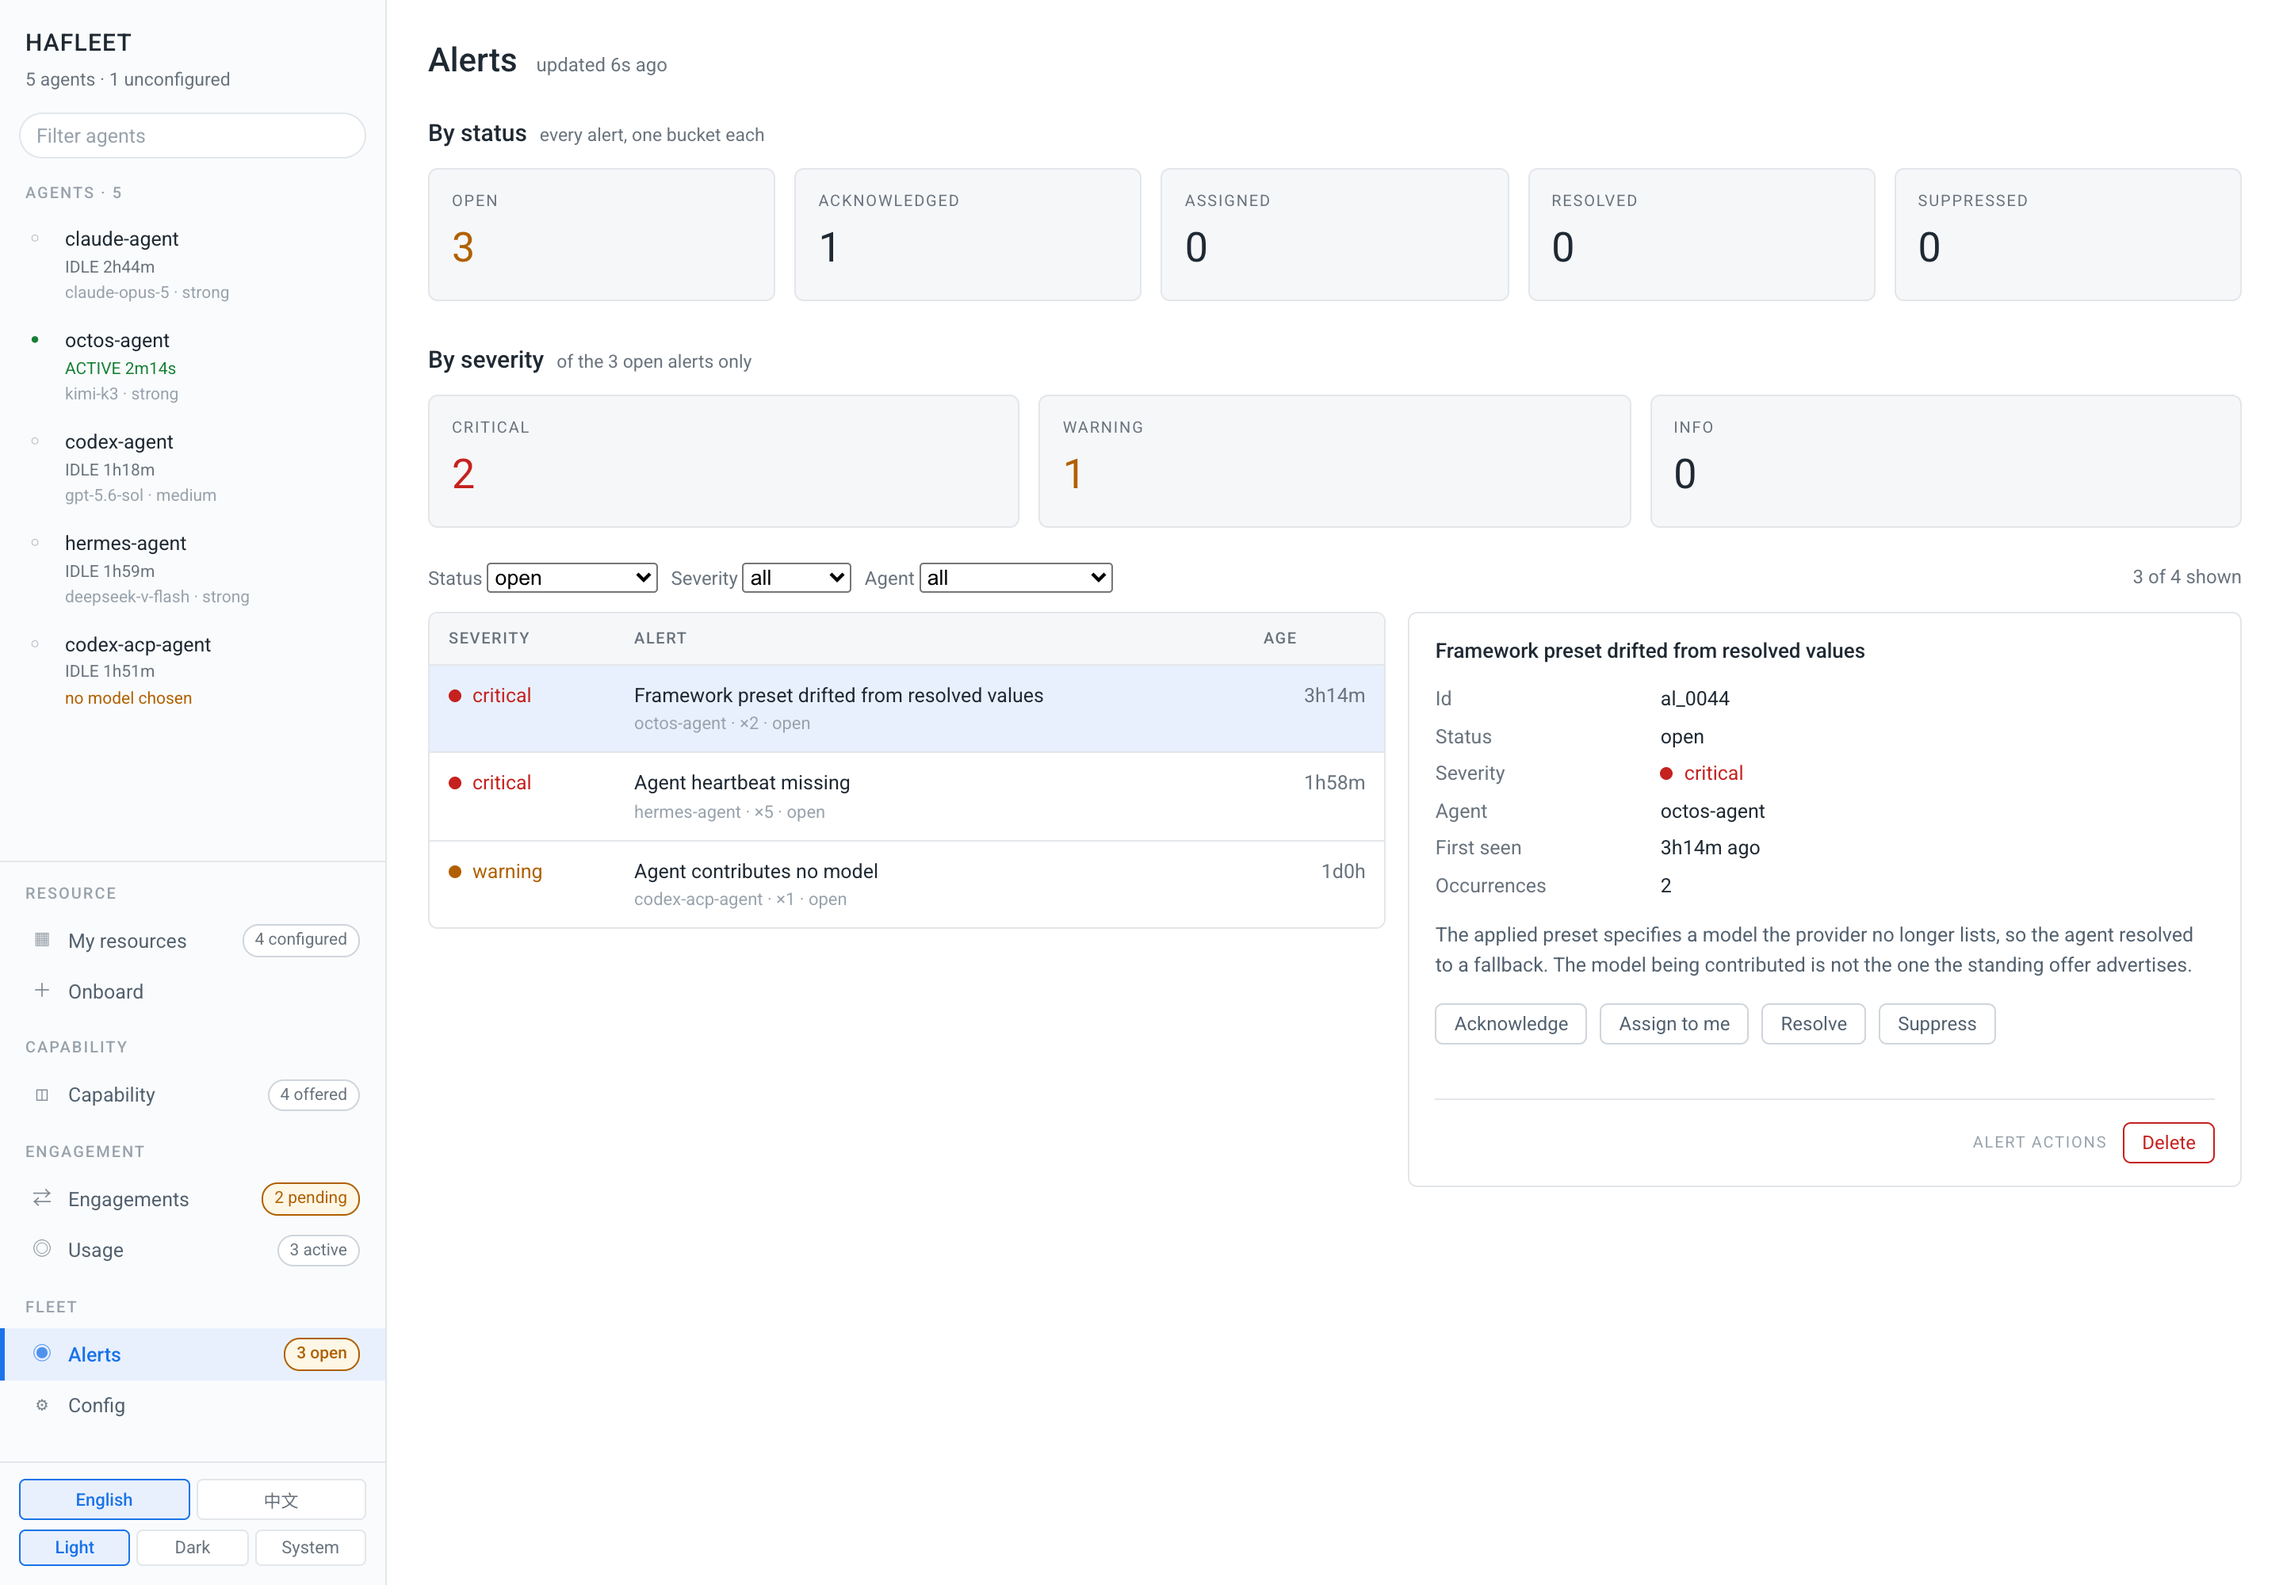
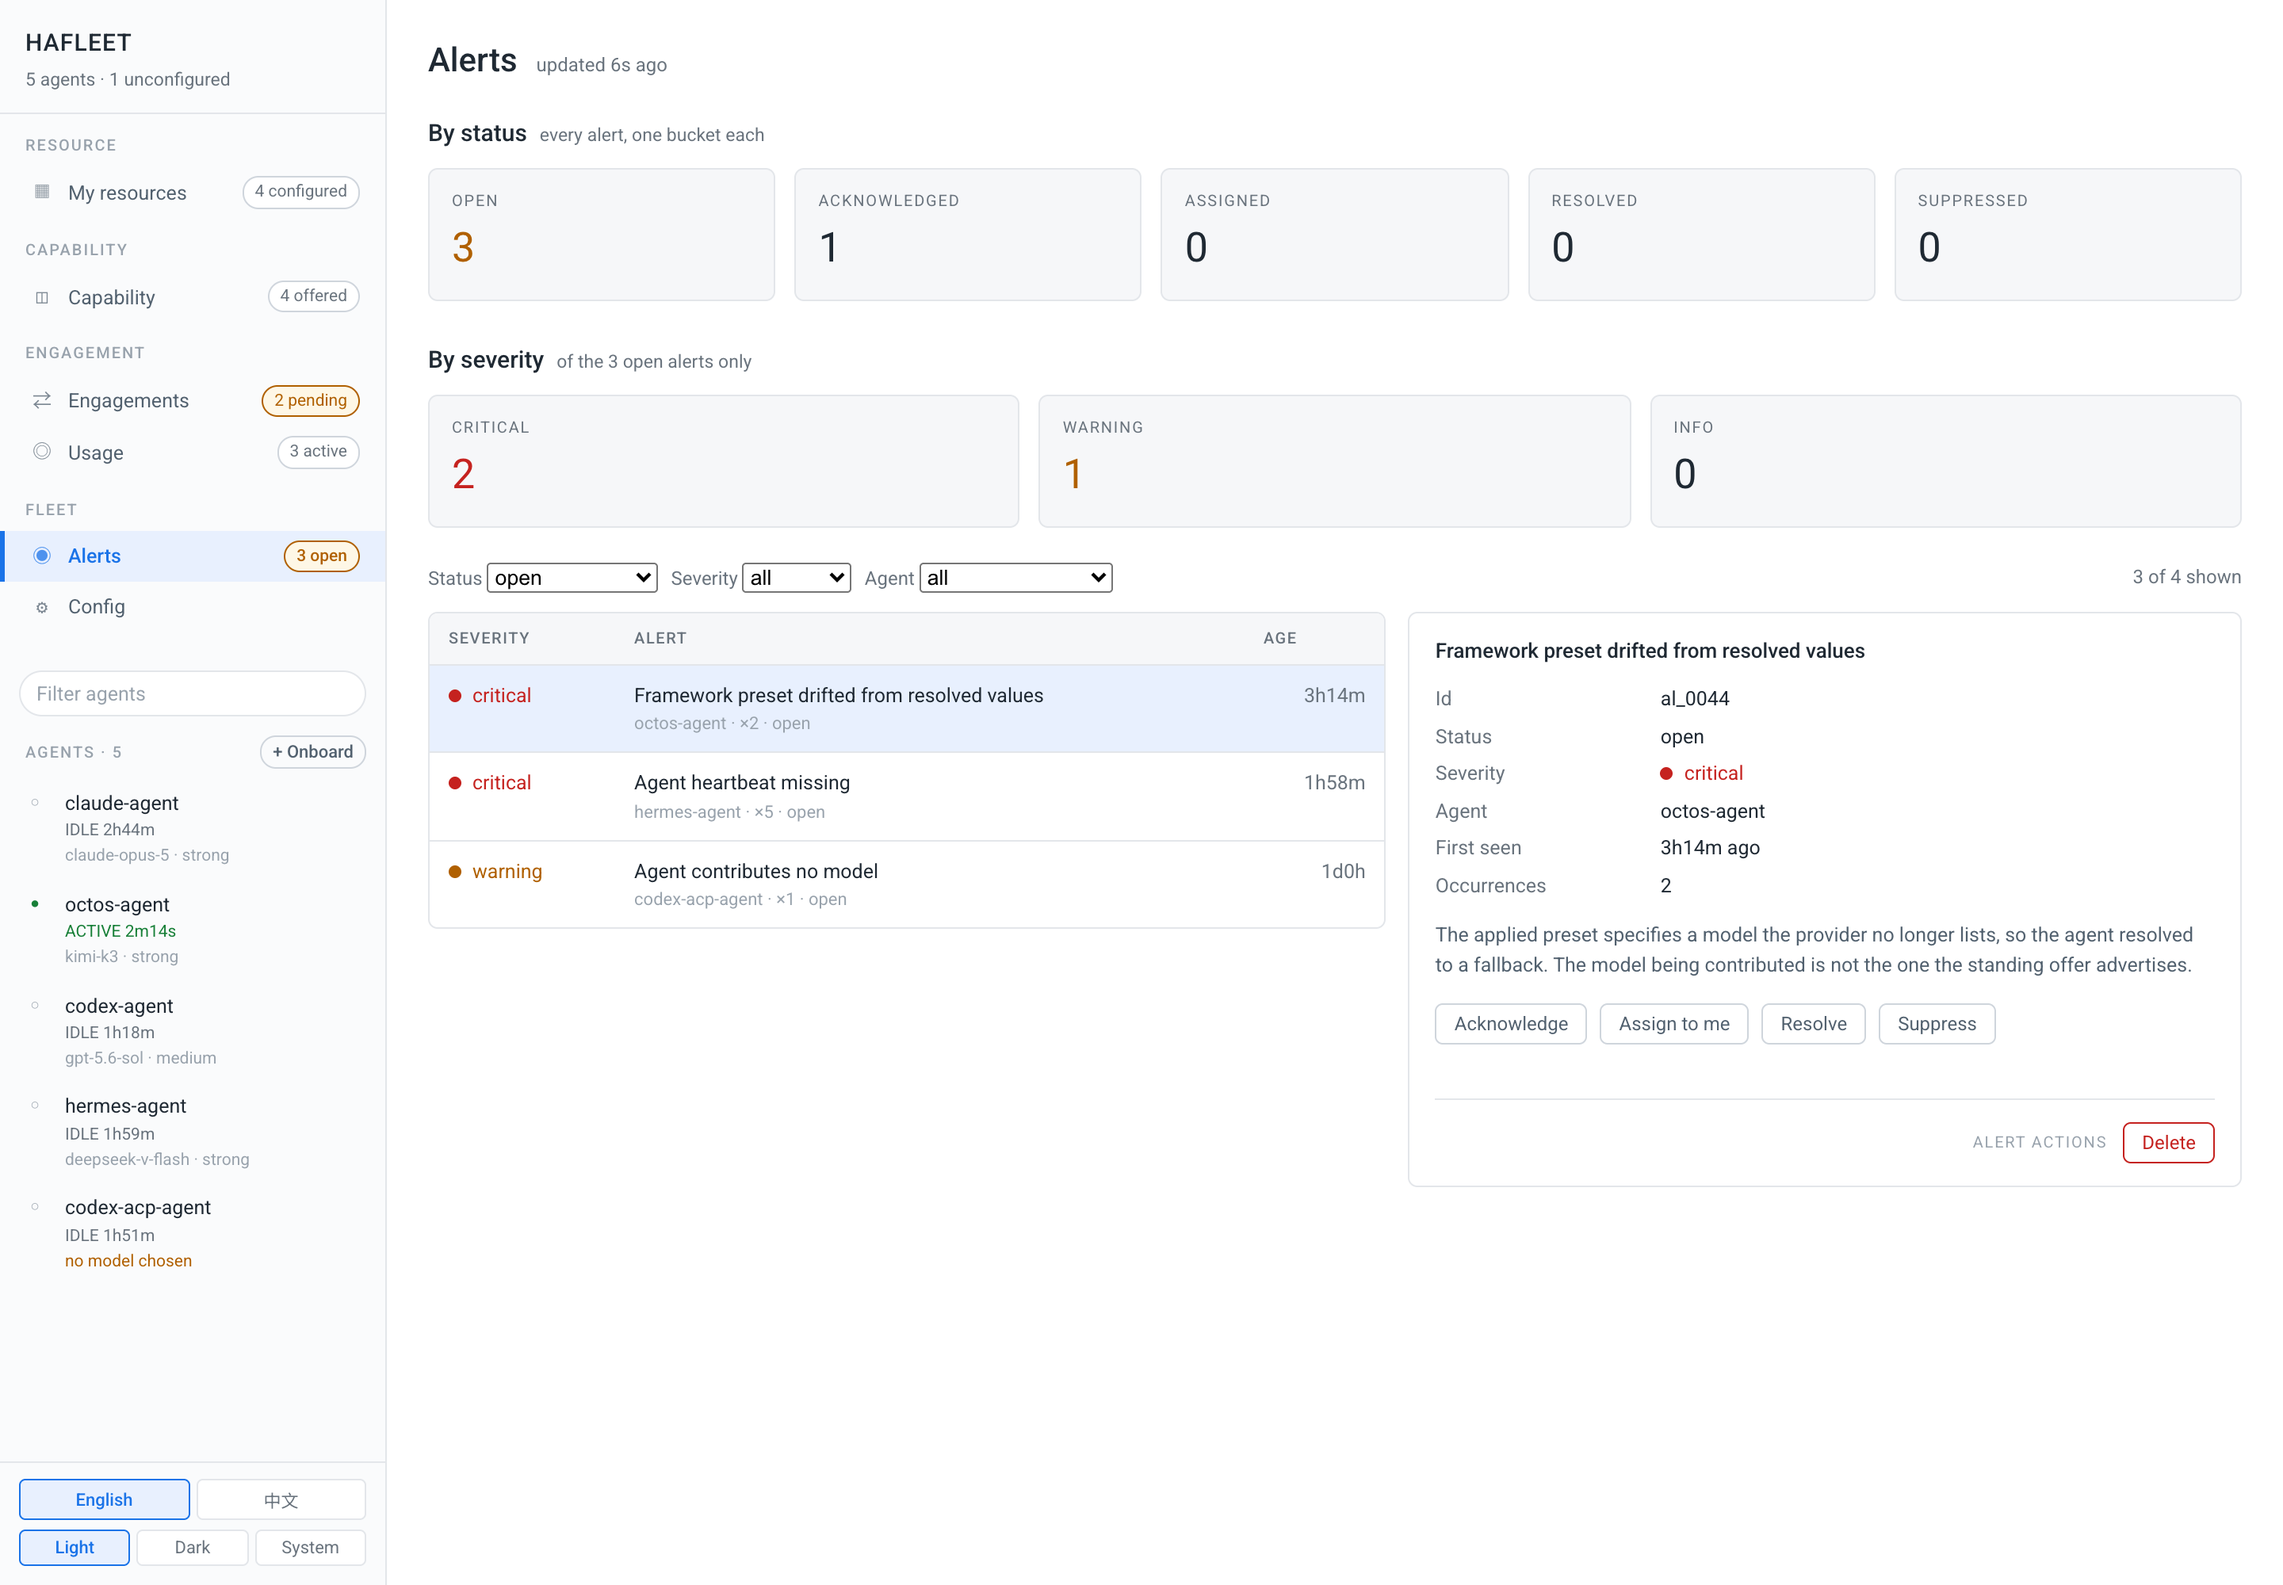
mockup: lead the rail with resources, and attach onboarding to the roster
Two IA corrections, both from the same observation: the rail was still shaped for
the console this replaced.

NAV MOVES ABOVE THE AGENT ROSTER. Leading with a list of five individual agents is
a fleet operator's headline — it is why the old rail existed at all ("agent state
never leaves the screen"). A contributor's headline is what they are lending; a
single agent is a drill-down target. The grid gives 1fr to the roster alone, so a
long list scrolls rather than pushing the nav off screen.

ONBOARDING LEAVES THE NAV. It adds a row to the agent roster, so it now rides on
that roster's heading instead of sitting as a peer of the four destinations —
a contributor onboards far less often than they look at what they are lending, and
rail position should follow frequency. Six nav destinations, down from seven; the
browser assertion says so and names where onboard went.

Also: the page was asked about three times, which is a naming defect rather than a
comprehension one. Its answer is that it connects the coding agents ALREADY
installed on this host — it probes for Claude Code, Codex, Octos and Hermes,
reports version, credential home and unmet prerequisites, and brings up the ready
ones. It never installs a framework and never holds a credential, which is why the
form has no password field.

90 static + 29 in-browser. Shots regenerated in both locales.

diff --git a/mockup/components/Rail.jsx b/mockup/components/Rail.jsx
@@ -28,7 +28,6 @@ const SECTIONS = [
     head: 'rail.secResource',
     rows: [
       { href: '/resources', key: 'resources', icon: '▦', count: 'agentsConfigured', unit: 'configured', also: ['/'] },
-      { href: '/onboard', key: 'onboard', icon: '＋', count: null },
     ],
   },
   {
@@ -82,51 +81,6 @@ export default function Rail() {
         </span>
       </div>
 
-      <div className="rail-filter">
-        <input
-          type="search"
-          placeholder={t('rail.filter')}
-          aria-label={t('rail.filter')}
-          value={filter}
-          onChange={(e) => setFilter(e.target.value)}
-        />
-      </div>
-
-      <div className="rail-scroll">
-        <h2 className="rail-sec">{`${t('rail.agents')} · ${shown.length}`}</h2>
-        <ul className="rail-list">
-          {shown.map((a) => {
-            const href = `/agents/${a.name}`;
-            const preset = presetOf(a);
-            const tier = tierOf(preset);
-            return (
-              <li key={a.name}>
-                <Link
-                  href={href}
-                  className={`agent-row${a.activeNow ? ' on' : ''}`}
-                  aria-current={pathname === href ? 'page' : undefined}
-                >
-                  <span className="glyph" aria-hidden="true">{a.activeNow ? '●' : '○'}</span>
-                  <span className="id">
-                    <span className="nm">{a.name}</span>
-                    {/* Status is text, not colour. */}
-                    <span className="st">{runtimeStatusText(a)}</span>
-                    {/* What it contributes. An unconfigured agent contributes
-                        nothing, and that is the fact worth surfacing. */}
-                    <span className={`job${preset ? '' : ' none'}`}>
-                      {preset ? `${preset.model} · ${tier}` : t('rail.noModel')}
-                    </span>
-                  </span>
-                </Link>
-              </li>
-            );
-          })}
-          {shown.length === 0 && (
-            <li className="rail-empty">{`${t('rail.noMatch')} “${filter}”`}</li>
-          )}
-        </ul>
-      </div>
-
       <div className="rail-fleet">
         {SECTIONS.map((sec) => (
           <div key={sec.head}>
@@ -161,6 +115,61 @@ export default function Rail() {
             </ul>
           </div>
         ))}
+      </div>
+
+      <div className="rail-filter roster-filter">
+        <input
+          type="search"
+          placeholder={t('rail.filter')}
+          aria-label={t('rail.filter')}
+          value={filter}
+          onChange={(e) => setFilter(e.target.value)}
+        />
+      </div>
+
+      <div className="rail-scroll">
+        <h2 className="rail-sec roster-head">
+          <span className="grow">{`${t('rail.agents')} · ${shown.length}`}</span>
+          {/* The action that adds a row to THIS list, attached to the list it
+              changes rather than sitting in the nav as a peer of the four
+              destinations — a contributor onboards far less often than they
+              look at what they are lending. */}
+          <Link href="/onboard" className="roster-add" title={t('nav.onboard')}
+            aria-current={pathname === '/onboard' ? 'page' : undefined}>
+            {t('rail.addAgent')}
+          </Link>
+        </h2>
+        <ul className="rail-list">
+          {shown.map((a) => {
+            const href = `/agents/${a.name}`;
+            const preset = presetOf(a);
+            const tier = tierOf(preset);
+            return (
+              <li key={a.name}>
+                <Link
+                  href={href}
+                  className={`agent-row${a.activeNow ? ' on' : ''}`}
+                  aria-current={pathname === href ? 'page' : undefined}
+                >
+                  <span className="glyph" aria-hidden="true">{a.activeNow ? '●' : '○'}</span>
+                  <span className="id">
+                    <span className="nm">{a.name}</span>
+                    {/* Status is text, not colour. */}
+                    <span className="st">{runtimeStatusText(a)}</span>
+                    {/* What it contributes. An unconfigured agent contributes
+                        nothing, and that is the fact worth surfacing. */}
+                    <span className={`job${preset ? '' : ' none'}`}>
+                      {preset ? `${preset.model} · ${tier}` : t('rail.noModel')}
+                    </span>
+                  </span>
+                </Link>
+              </li>
+            );
+          })}
+          {shown.length === 0 && (
+            <li className="rail-empty">{`${t('rail.noMatch')} “${filter}”`}</li>
+          )}
+        </ul>
       </div>
 
       <PrefsSwitch />

diff --git a/mockup/app/globals.css b/mockup/app/globals.css
@@ -77,7 +77,13 @@ a { color: inherit; text-decoration: none; }
   background: var(--panel-2);
   border-right: 1px solid var(--line);
   display: grid;
-  grid-template-rows: auto auto 1fr auto auto;
+  /* brand · nav · filter · roster(scrolls) · prefs.
+     The nav sits ABOVE the roster now. It used to be the other way round, which
+     led with a list of individual agents — a fleet operator's headline, inherited
+     from the console this replaced. A contributor's headline is the resource
+     view; a single agent is a drill-down target. Only the roster gets 1fr, so a
+     long list scrolls instead of pushing the nav off screen. */
+  grid-template-rows: auto auto auto 1fr auto;
   min-height: 0;
 }
 
@@ -1018,3 +1024,16 @@ h3.sub { font-size: 12.5px; font-weight: 600; margin: 2px 0 8px; color: var(--in
 /* a badge that qualifies a number needs air, or "5.0M" and "not enforced" weld
    into "5.0Mnot enforced" */
 .amount + .badge, .tbl td .badge { margin-left: 6px; }
+
+/* the roster heading carries the action that adds a row to it */
+.rail-sec.roster-head { display: flex; align-items: baseline; gap: 8px; padding-right: 12px; }
+.rail-sec.roster-head .grow { flex: 1; }
+.roster-add {
+  font-size: 11px; letter-spacing: 0; text-transform: none;
+  padding: 1px 7px; border: 1px solid var(--line-strong); border-radius: 10px;
+  color: var(--ink-2); white-space: nowrap;
+}
+.roster-add:hover { border-color: var(--accent); color: var(--accent); }
+.roster-add[aria-current="page"] { border-color: var(--accent); color: var(--accent); background: var(--accent-soft); }
+/* the filter belongs to the roster it filters, so it sits directly above it */
+.rail-filter.roster-filter { padding: 4px 12px 8px; }

diff --git a/mockup/lib/i18n.js b/mockup/lib/i18n.js
@@ -475,6 +475,7 @@ const en = {
   'ob.presetHint': 'A role is not chosen here. The model decides the tier, and the tier decides which roles this agent can be offered as.',
   'ob.presetOutcome': 'Qualifies at {tier}, so it can be offered as: {roles}.',
   'ob.presetOmitted': 'Without a preset this agent registers and runs, but contributes nothing and can fill no request — which is what every agent looks like today, since no onboarding path writes one.',
+  'rail.addAgent': '+ Onboard',
 };
 
 const zh = {
@@ -921,6 +922,7 @@ const zh = {
   'ob.presetHint': '这里不选角色。模型决定能力档,能力档决定这个 agent 能以哪些角色对外提供。',
   'ob.presetOutcome': '符合 {tier} 档,因此可作为以下角色提供:{roles}。',
   'ob.presetOmitted': '不选配置的话,这个 agent 会注册并运行,但不贡献任何东西、也无法承接请求 —— 而这正是今天所有 agent 的样子,因为没有任何接入路径会写入配置。',
+  'rail.addAgent': '+ 接入',
 };
 
 export const DICTS = { en, zh };
